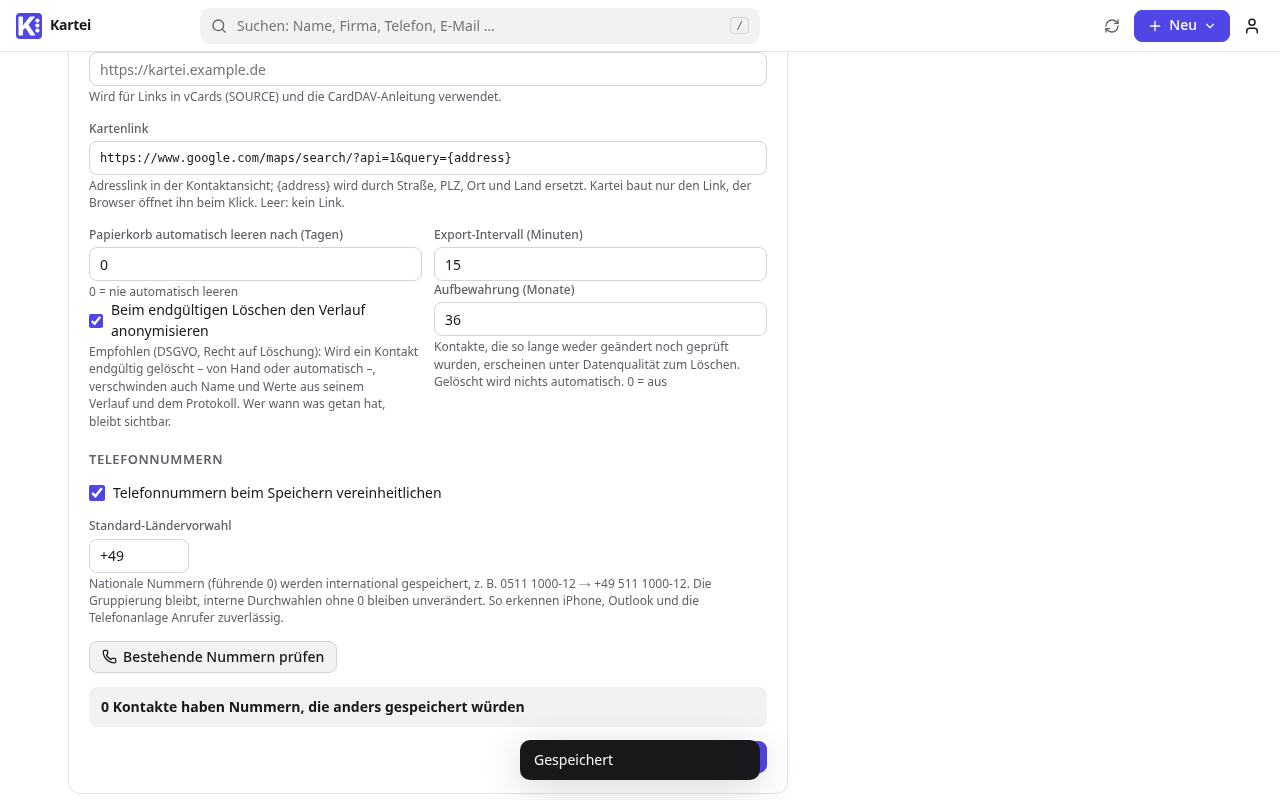
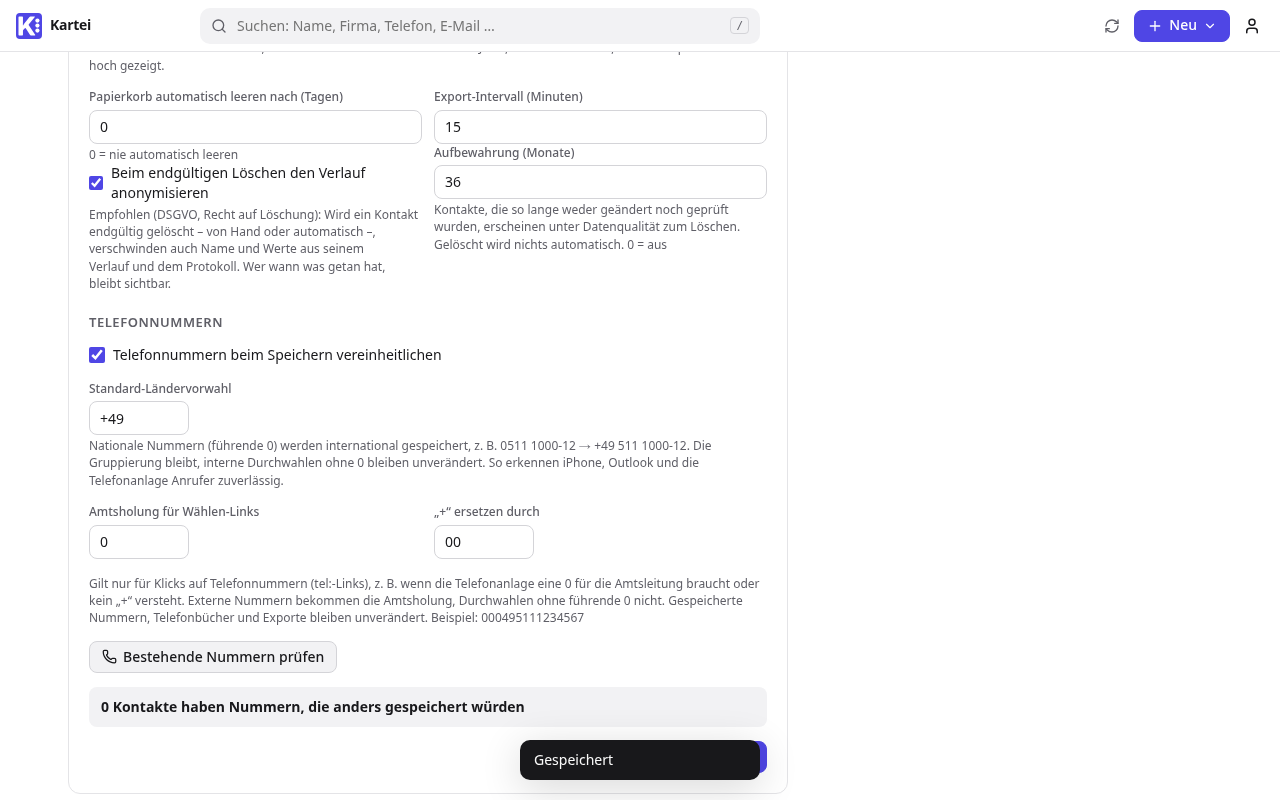
Settings: tel: links through a phone system (outside line, "+" replacement) (#96)
Clicking a phone number opened tel:+495111234567. A phone system that
needs an outside-line prefix or doesn't understand "+" couldn't dial it.
Two global settings under General → Phone numbers: an outside-line
prefix (e.g. 0) and a replacement for "+" (e.g. 00), so the link becomes
tel:000495111234567. Numbers stored nationally get the outside line
only, extensions without a leading 0 stay as they are. Only the links
change; stored numbers, CardDAV, phonebooks and exports don't.

- Settings.tel_outside / tel_plus (migration 0021), up to four digits,
  * and #; sent in bootstrap and changes as "tel", kept in the offline
  snapshot
- lib/tel.ts telHref() with tests, used in the contact view
- Admin manual de/en, screenshot settings-general-phones, CHANGELOG

Changed region(s): [[0.0625, 0.1562, 0.5938, 0.7812], [0.0625, 0.0625, 0.4688, 0.125], [0.3438, 0.625, 0.4062, 0.6875]]

diff --git a/frontend/src/lib/store.svelte.ts b/frontend/src/lib/store.svelte.ts
@@ -4,6 +4,7 @@ import { setLang, t } from './i18n.svelte'
 import { clearDrafts } from './drafts'
 import { disablePush, startPush } from './push'
 import { buildIndex, displayName, type Indexed, type ListSort, type NameOrder } from './search'
+import type { TelPrefix } from './tel'
 import { RANK, type Field, type Kind, type Section, type Lang, type ListState, type Proposal, type Rec, type Review,
          type PushKind, type SavedFilter, type User } from './types'
 
@@ -20,6 +21,7 @@ interface Snapshot {
   user: User
   defaultLang: Lang
   mapUrl?: string
+  tel?: TelPrefix
   printLogo?: string
   fields: Field[]
   sections?: Section[]
@@ -39,6 +41,7 @@ class Store {
   defaultLang = $state<Lang>('de')
   /** address link template from the settings ({address}); '' = no link */
   mapUrl = $state('')
+  tel = $state<TelPrefix>({ outside: '', plus: '' })
   /** logo on the phone list: "kartei", "none", or the version of the organisation's own (/api/print-logo?v=…) */
   printLogo = $state('kartei')
   /** "Sign in with Microsoft" is offered (from the session) */
@@ -164,6 +167,7 @@ class Store {
     this.user = s.user
     this.defaultLang = s.defaultLang
     this.mapUrl = s.mapUrl ?? ''
+    this.tel = s.tel ?? { outside: '', plus: '' }
     this.printLogo = s.printLogo ?? 'kartei'
     this.fields = s.fields
     this.sections = s.sections ?? []
@@ -262,6 +266,7 @@ class Store {
           this.user = ch.user
           this.defaultLang = ch.default_language
           this.mapUrl = ch.map_url ?? ''
+          this.tel = ch.tel ?? { outside: '', plus: '' }
           this.printLogo = ch.print_logo ?? 'kartei'
           this.cursor = ch.cursor
           this.applyLang()
@@ -276,6 +281,7 @@ class Store {
       this.user = b.user
       this.defaultLang = b.default_language
       this.mapUrl = b.map_url ?? ''
+      this.tel = b.tel ?? { outside: '', plus: '' }
       this.printLogo = b.print_logo ?? 'kartei'
       this.fields = b.fields
       this.sections = b.sections ?? []
@@ -317,7 +323,7 @@ class Store {
       if (!this.user) return
       const snap: Snapshot = {
         username: this.user.username, savedAt: Date.now(), cursor: this.cursor, user: $state.snapshot(this.user) as User,
-        defaultLang: this.defaultLang, mapUrl: this.mapUrl, printLogo: this.printLogo, fields: this.fields, sections: this.sections, records: this.records,
+        defaultLang: this.defaultLang, mapUrl: this.mapUrl, tel: this.tel, printLogo: this.printLogo, fields: this.fields, sections: this.sections, records: this.records,
         reviews: this.reviews, proposals: this.proposals,
         recent: this.recent, favorites: this.favorites, filters: this.filters,
       }

diff --git a/frontend/src/settings/System.svelte b/frontend/src/settings/System.svelte
@@ -7,6 +7,7 @@
   import { copyText, toast } from '../lib/toast.svelte'
   import Combobox from '../components/Combobox.svelte'
   import { dateTime, relTime } from '../lib/format'
+  import { telHref } from '../lib/tel'
 
   let { section }: { section: 'ldap' | 'sso' | 'carddav' | 'outlook' | 'review' | 'mail' | 'general' } = $props()
 
@@ -300,6 +301,15 @@
         <p class="hint">{t('phone.hint')}</p>
         {#if errors.phone_country_code}<div class="error-text">{terr(errors.phone_country_code)}</div>{/if}
       </div>
+      <div class="row2">
+        <div><label class="label" for="telo">{t('phone.tel_outside')}</label>
+          <input id="telo" class="input narrow" bind:value={s.tel_outside} placeholder="0" maxlength="4" />
+          {#if errors.tel_outside}<div class="error-text">{terr(errors.tel_outside)}</div>{/if}</div>
+        <div><label class="label" for="telp">{t('phone.tel_plus')}</label>
+          <input id="telp" class="input narrow" bind:value={s.tel_plus} placeholder="00" maxlength="4" />
+          {#if errors.tel_plus}<div class="error-text">{terr(errors.tel_plus)}</div>{/if}</div>
+      </div>
+      <p class="hint">{t('phone.tel_hint', { example: telHref(`${s.phone_country_code || '+49'} 511 1234567`, { outside: s.tel_outside ?? '', plus: s.tel_plus ?? '' }).slice(4) })}</p>
       <div class="test"><button type="button" class="btn" onclick={checkPhones}><Phone size={15} />{t('phone.check')}</button></div>
       {#if phoneRun}
         <div class="result info">

diff --git a/frontend/src/lib/audit.ts b/frontend/src/lib/audit.ts
@@ -48,7 +48,7 @@ const ATTR: Record<string, Record<string, string>> = {
     proposal_notify: 'review.proposal_notify', proposal_notify_to: 'review.proposal_to',
     ad_enabled: 'ad.enabled', ad_ou: 'ad.ou', ad_bind_dn: 'ad.bind_dn', ad_bind_password_enc: 'ad.bind_pw',
     ad_kinds: 'exports.kinds', ad_columns: 'ad.mapping', ad_max_shrink_percent: 'ad.guard',
-    phone_normalize: 'phone.normalize', phone_country_code: 'phone.country_code',
+    phone_normalize: 'phone.normalize', phone_country_code: 'phone.country_code', tel_outside: 'phone.tel_outside', tel_plus: 'phone.tel_plus',
     mail_templates: 'audit.attr.mail_templates', mail_transport: 'audit.attr.mail_transport', mail_graph_sender: 'audit.attr.mail_graph_sender',
     map_url: 'general.map_url', ldap_users_max_deactivate_percent: 'ldap.import_guard', audit_signin_days: 'mon.retention', backup_enabled: 'backup.enabled', backup_time: 'backup.time', backup_keep_days: 'backup.keep', monitoring_allowlist: 'mon.allowlist', monitoring_token_hash: 'mon.token',
     syslog_enabled: 'mon.syslog_enabled', syslog_host: 'mon.syslog_host', syslog_port: 'mon.syslog_port',

diff --git a/frontend/src/i18n/de.ts b/frontend/src/i18n/de.ts
@@ -910,6 +910,9 @@ export default {
   'phone.normalize': "Telefonnummern beim Speichern vereinheitlichen",
   'phone.country_code': "Standard-Ländervorwahl",
   'phone.hint': "Nationale Nummern (führende 0) werden international gespeichert, z. B. 0511 1000-12 → +49 511 1000-12. Die Gruppierung bleibt, interne Durchwahlen ohne 0 bleiben unverändert. So erkennen iPhone, Outlook und die Telefonanlage Anrufer zuverlässig.",
+  'phone.tel_outside': "Amtsholung für Wählen-Links",
+  'phone.tel_plus': "„+“ ersetzen durch",
+  'phone.tel_hint': "Gilt nur für Klicks auf Telefonnummern (tel:-Links), z. B. wenn die Telefonanlage eine 0 für die Amtsleitung braucht oder kein „+“ versteht. Externe Nummern bekommen die Amtsholung, Durchwahlen ohne führende 0 nicht. Gespeicherte Nummern, Telefonbücher und Exporte bleiben unverändert. Beispiel: {example}",
   'phone.check': "Bestehende Nummern prüfen",
   'phone.found': "{n} Kontakte haben Nummern, die anders gespeichert würden",
   'phone.found_one': "1 Kontakt hat Nummern, die anders gespeichert würden",

diff --git a/frontend/src/i18n/en.ts b/frontend/src/i18n/en.ts
@@ -910,6 +910,9 @@ export default {
   'phone.normalize': "Normalize phone numbers on save",
   'phone.country_code': "Default country code",
   'phone.hint': "National numbers (leading 0) are stored in international form, e.g. 0511 1000-12 → +49 511 1000-12. The grouping is kept, internal extensions without 0 stay as they are. This lets iPhone, Outlook and the phone system identify callers reliably.",
+  'phone.tel_outside': "Outside line for dial links",
+  'phone.tel_plus': "Replace “+” with",
+  'phone.tel_hint': "Only applies to clicks on phone numbers (tel: links), e.g. when the phone system needs a 0 for an outside line or doesn't understand “+”. External numbers get the outside line, extensions without a leading 0 don't. Stored numbers, phonebooks and exports stay unchanged. Example: {example}",
   'phone.check': "Check existing numbers",
   'phone.found': "{n} contacts have numbers that would be stored differently",
   'phone.found_one': "1 contact has numbers that would be stored differently",

diff --git a/frontend/src/components/RecordView.svelte b/frontend/src/components/RecordView.svelte
@@ -17,6 +17,7 @@
   import { hasOrg, managerField } from '../lib/orgchart'
   import { copyText, toast } from '../lib/toast.svelte'
   import { hasEditDraft } from '../lib/drafts'
+  import { telHref } from '../lib/tel'
   import { confirmDialog } from '../lib/confirm.svelte'
   import type { BatchItem, Field, Proposal, Rec } from '../lib/types'
 
@@ -233,7 +234,7 @@
                 <dt>{L(f.label)}{#if L(f.help)}<span class="info" title={L(f.help)}><Info size={11} /></span>{/if}</dt>
                 <dd>
                   {#if f.type === 'phone'}
-                    <a href="tel:{String(v).replace(/[^\d+]/g, '')}" class="tabular"><Phone size={13} />{v}</a>
+                    <a href={telHref(v, store.tel)} class="tabular"><Phone size={13} />{v}</a>
                     <button class="copy" onclick={() => copy(v)} aria-label={t('view.copy')}><Copy size={13} /></button>
                   {:else if f.type === 'email'}
                     <a href="mailto:{v}"><Mail size={13} />{v}</a>

diff --git a/frontend/tests/tel.test.ts b/frontend/tests/tel.test.ts
@@ -1,0 +1,17 @@
+import assert from 'node:assert/strict'
+import { test } from 'node:test'
+import { telHref } from '../src/lib/tel.ts'
+
+test('tel: links without settings keep the number', () => {
+  assert.equal(telHref('+49 511 123-45'), 'tel:+4951112345')
+  assert.equal(telHref('(0511) 1234'), 'tel:05111234')
+})
+
+test('tel: links through a phone system', () => {
+  const p = { outside: '0', plus: '00' }
+  assert.equal(telHref('+49 511 1234567', p), 'tel:000495111234567')
+  assert.equal(telHref('0511 1234567', p), 'tel:005111234567') // national: outside line only
+  assert.equal(telHref('123', p), 'tel:123') // extension: internal call
+  assert.equal(telHref('+49 511 1', { outside: '', plus: '00' }), 'tel:00495111')
+  assert.equal(telHref('+49 511 1', { outside: '0', plus: '' }), 'tel:0+495111')
+})

diff --git a/frontend/src/lib/tel.ts b/frontend/src/lib/tel.ts
@@ -1,0 +1,11 @@
+export interface TelPrefix { outside: string; plus: string }
+
+/** tel: link for a stored number, dialled through a phone system: international numbers get the outside-line prefix
+ *  and "+" replaced (e.g. 0 and 00: +49 511 1234 -> 000495111234), national ones (leading 0) the outside-line prefix,
+ *  extensions stay as they are. Without settings the number is only stripped to digits and "+". */
+export function telHref(v: unknown, p: TelPrefix = { outside: '', plus: '' }): string {
+  const n = String(v ?? '').replace(/[^\d+*#]/g, '')
+  if (n.startsWith('+')) return `tel:${p.outside}${p.plus ? p.plus + n.slice(1) : n}`
+  if (n.startsWith('0')) return `tel:${p.outside}${n}`
+  return `tel:${n}`
+}

diff --git a/backend/kartei/api.py b/backend/kartei/api.py
@@ -435,6 +435,7 @@ def bootstrap(request):
     s, users = Settings.get(), user_options()
     return JsonResponse({"cursor": now.isoformat(), "user": ser_user(request.user),
                          "default_language": s.default_language, "map_url": s.map_url, "print_logo": print_logo(s),
+                         "tel": {"outside": s.tel_outside, "plus": s.tel_plus},
                          "fields": [ser_field(f, users) for f in fields], "sections": sections_list(),
                          "records": records, **workflow(request),
                          **dashboard_prefs(request)})
@@ -458,6 +459,7 @@ def changes(request):
     changed = ser_records(Record.objects.filter(Q(updated_at__gte=cut) | Q(reviewed_at__gte=cut)), fields)
     return JsonResponse({
         "cursor": now.isoformat(), "user": ser_user(request.user), "default_language": s.default_language, "map_url": s.map_url, "print_logo": print_logo(s),
+        "tel": {"outside": s.tel_outside, "plus": s.tel_plus},
         "fields": [ser_field(f, users) for f in fields], "sections": sections_list(),
         "records": [r for r in changed if not r["deleted_at"]],
         "deleted": [r["uid"] for r in changed if r["deleted_at"]],
@@ -1738,7 +1740,7 @@ SETTINGS_ATTRS = ["default_language", "totp_required", "base_url", "trash_days",
                   "review_campaign_day", "smtp_host", "smtp_port", "smtp_security", "smtp_username", "smtp_from",
                   "review_remind_days", "proposal_notify", "proposal_notify_to",
                   "ad_enabled", "ad_ou", "ad_bind_dn", "ad_kinds", "ad_columns", "ad_max_shrink_percent"]
-SETTINGS_ATTRS += ["phone_normalize", "phone_country_code"]  # quality
+SETTINGS_ATTRS += ["phone_normalize", "phone_country_code", "tel_outside", "tel_plus"]  # quality, tel: links
 SETTINGS_ATTRS += ["map_url", "ldap_users_max_deactivate_percent", "print_logo_mode"]
 SETTINGS_ATTRS += ["backup_enabled", "backup_time", "backup_keep_days"]
 SETTINGS_ATTRS += ["retention_months", "phonebook_enabled", "phonebook_username", "phonebook_allowlist", "audit_signin_days", "monitoring_allowlist", "syslog_enabled", "syslog_host", "syslog_port",
@@ -1837,6 +1839,10 @@ def settings_put(request):
         errors["map_url"] = "map_url_invalid"
     if not re.fullmatch(r"\+[1-9]\d{0,3}", str(s.phone_country_code)):
         errors["phone_country_code"] = "invalid"
+    for a in ("tel_outside", "tel_plus"):
+        setattr(s, a, str(getattr(s, a) or "").strip())
+        if not re.fullmatch(r"[\d*#]{0,4}", getattr(s, a)):
+            errors[a] = "invalid"
     if s.export_interval_minutes == 0:
         errors["export_interval_minutes"] = "too_small"
     if s.ldap_user_filter and "%(user)s" not in s.ldap_user_filter:

diff --git a/backend/kartei/test_share.py b/backend/kartei/test_share.py
@@ -1,3 +1,7 @@
+from urllib.parse import quote
+
+from django.utils import timezone
+
 from .models import FieldDef, Record, Settings
 from .tests import ApiTestBase
 
@@ -37,6 +41,17 @@ class ShareTests(ApiTestBase):
         self.j("put", "/api/admin/settings", {"map_url": ""})  # no link
         self.as_("read")
         self.assertEqual(self.j("get", "/api/bootstrap")["map_url"], "")
+
+    def test_tel_link_setting(self):
+        self.as_("read")
+        self.assertEqual(self.j("get", "/api/bootstrap")["tel"], {"outside": "", "plus": ""})  # plain tel: links
+        self.as_("admin")
+        r = self.j("put", "/api/admin/settings", {"tel_outside": "0,", "tel_plus": "+"}, status=400)
+        self.assertEqual(r["fields"], {"tel_outside": "invalid", "tel_plus": "invalid"})
+        self.j("put", "/api/admin/settings", {"tel_outside": " 0 ", "tel_plus": "00"})
+        self.as_("read")
+        self.assertEqual(self.j("get", "/api/bootstrap")["tel"], {"outside": "0", "plus": "00"})
+        self.assertEqual(self.j("get", "/api/changes?since=" + quote(timezone.now().isoformat()))["tel"]["outside"], "0")
 
     def test_android_qr_puts_multi_line_text_on_one_line(self):
         FieldDef.objects.filter(key="description").update(vcard="note")

diff --git a/backend/kartei/models.py b/backend/kartei/models.py
@@ -197,6 +197,9 @@ class Settings(models.Model):
 
     phone_normalize = models.BooleanField(default=True)  # phone fields are saved in international form
     phone_country_code = models.CharField(max_length=5, default="+49")  # for national numbers (leading 0)
+    # tel: links for a phone system: outside-line prefix for external numbers and the digits that replace "+"
+    tel_outside = models.CharField(max_length=4, blank=True, default="")
+    tel_plus = models.CharField(max_length=4, blank=True, default="")
 
     # email: templates per email and language (empty = default, see reviews.DEFAULT_TEMPLATES) and the transport
     mail_templates = models.JSONField(default=dict, blank=True)  # {"review"|"reminder"|"proposals": {"de"|"en": {"subject", "body"}}}

diff --git a/backend/kartei/migrations/0021_tel_links.py b/backend/kartei/migrations/0021_tel_links.py
@@ -1,0 +1,23 @@
+# Generated by Django 5.2.18 on 2026-11-26 12:33
+
+from django.db import migrations, models
+
+
+class Migration(migrations.Migration):
+
+    dependencies = [
+        ('kartei', '0020_graph_filter_prefix'),
+    ]
+
+    operations = [
+        migrations.AddField(
+            model_name='settings',
+            name='tel_outside',
+            field=models.CharField(blank=True, default='', max_length=4),
+        ),
+        migrations.AddField(
+            model_name='settings',
+            name='tel_plus',
+            field=models.CharField(blank=True, default='', max_length=4),
+        ),
+    ]
